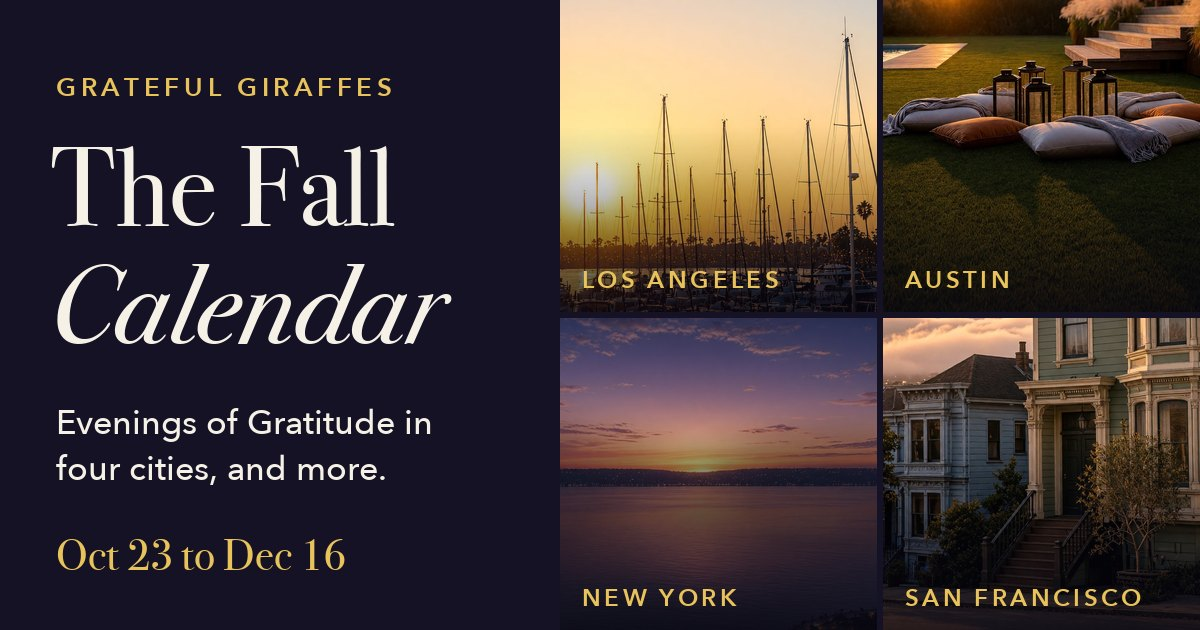
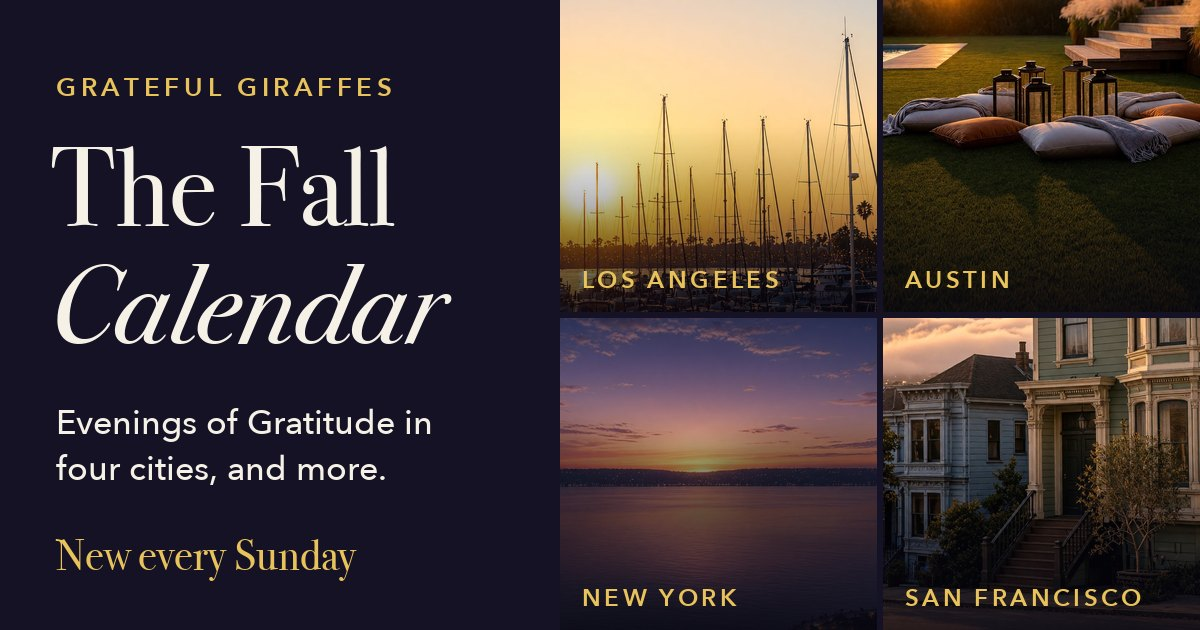
calendar: evergreen card (new every Sunday)

Changed region(s): [[0.0308, 0.8444, 0.3083, 0.9048]]

diff --git a/calendar/index.html b/calendar/index.html
@@ -3,22 +3,22 @@
 <head>
 <meta charset="utf-8">
 <meta name="viewport" content="width=device-width, initial-scale=1">
-<title>The Fall Calendar · Grateful Giraffes · The Oasis</title>
+<title>The Calendar · Grateful Giraffes · The Oasis</title>
 
 <meta property="og:type" content="website">
 <meta property="og:site_name" content="The Oasis">
-<meta property="og:title" content="The Fall Calendar · Grateful Giraffes">
-<meta property="og:description" content="Evenings of Gratitude in Los Angeles, Austin, New York and San Francisco, plus Illuminate, the Cosmic Concert and the Biohacking Safari. RSVP and bring a friend.">
+<meta property="og:title" content="The Calendar · Grateful Giraffes">
+<meta property="og:description" content="Evenings of Gratitude and gatherings in Los Angeles, Austin, New York and San Francisco. New every Sunday. RSVP and bring a friend.">
 <meta property="og:url" content="https://grateful.gg/calendar/">
 <meta property="og:image" content="https://grateful.gg/calendar/cover.jpg">
 <meta property="og:image:secure_url" content="https://grateful.gg/calendar/cover.jpg">
 <meta property="og:image:type" content="image/jpeg">
 <meta property="og:image:width" content="1200">
 <meta property="og:image:height" content="630">
-<meta property="og:image:alt" content="The Fall Calendar: golden-hour scenes from Los Angeles, Austin, New York and San Francisco">
+<meta property="og:image:alt" content="The Grateful Giraffes calendar: golden-hour scenes from Los Angeles, Austin, New York and San Francisco">
 <meta name="twitter:card" content="summary_large_image">
-<meta name="twitter:title" content="The Fall Calendar · Grateful Giraffes">
-<meta name="twitter:description" content="Evenings of Gratitude in Los Angeles, Austin, New York and San Francisco, plus Illuminate, the Cosmic Concert and the Biohacking Safari. RSVP and bring a friend.">
+<meta name="twitter:title" content="The Calendar · Grateful Giraffes">
+<meta name="twitter:description" content="Evenings of Gratitude and gatherings in Los Angeles, Austin, New York and San Francisco. New every Sunday. RSVP and bring a friend.">
 <meta name="twitter:image" content="https://grateful.gg/calendar/cover.jpg">
 
 <!-- Humans go to the real page; crawlers read the tags above first. The card
@@ -46,8 +46,8 @@
 </head>
 <body>
   <main class="card">
-    <img src="https://grateful.gg/calendar/cover.jpg" alt="The Fall Calendar: golden-hour scenes from Los Angeles, Austin, New York and San Francisco" width="1200" height="630">
-    <div class="b"><h1>The Fall Calendar · Grateful Giraffes</h1><p>Evenings of Gratitude in Los Angeles, Austin, New York and San Francisco, plus Illuminate, the Cosmic Concert and the Biohacking Safari. RSVP and bring a friend.</p>
+    <img src="https://grateful.gg/calendar/cover.jpg" alt="The Grateful Giraffes calendar: golden-hour scenes from Los Angeles, Austin, New York and San Francisco" width="1200" height="630">
+    <div class="b"><h1>The Calendar · Grateful Giraffes</h1><p>Evenings of Gratitude and gatherings in Los Angeles, Austin, New York and San Francisco. New every Sunday. RSVP and bring a friend.</p>
     <a class="btn" href="https://app.grateful.gg/events">Open the event &rarr;</a></div>
   </main>
 </body>
